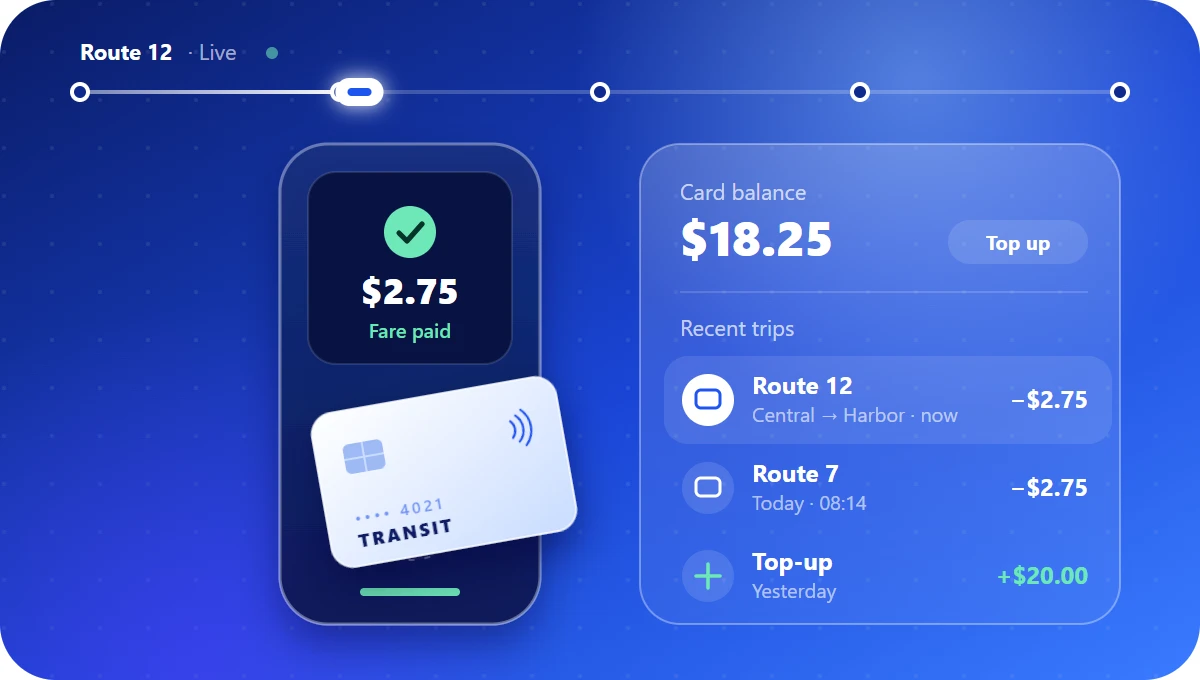
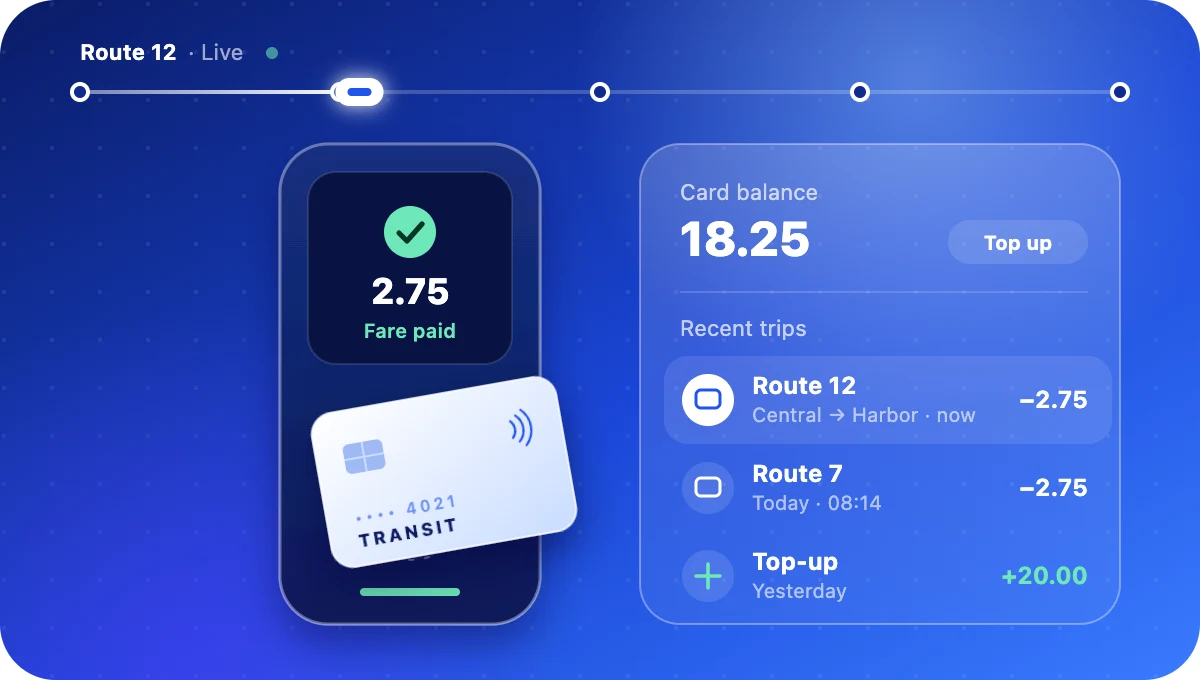
[R6b-2] Bus fare animation: plain amounts without "$", like the payment animation

diff --git a/server/prisma/seed-data/products.ts b/server/prisma/seed-data/products.ts
@@ -48,7 +48,7 @@ const products: PageSeed = {
         animation: {
           src: '/animations/bus-fare.svg',
           staticImage: '/animations/bus-fare-static.webp',
-          alt: 'Transit card tapped on a phone reader showing a $2.75 fare paid, alongside the card balance and recent trips',
+          alt: 'Transit card tapped on a phone reader showing a 2.75 fare paid, alongside the card balance and recent trips',
         },
         imageWidth: 752,
         imageHeight: 426,
